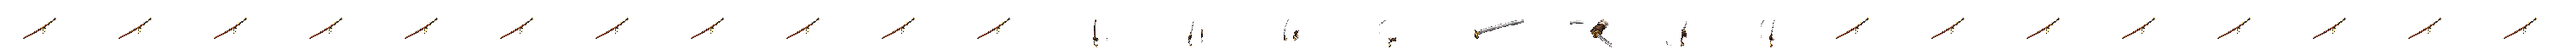
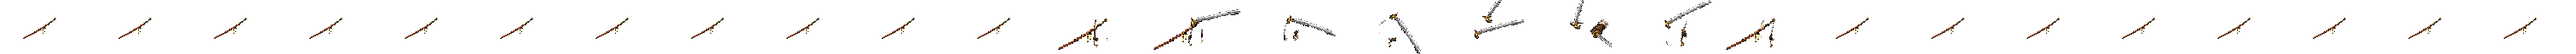
fix(character): 검공격 프레임(11~18) 검 레이어 재생성 반영
기존엔 검공격 8프레임 중 실제로 칼이 뽑혀 휘둘러지는 그림이 1프레임뿐이고
나머지는 대기(sheathed) 자세와 거의 동일해 몸은 움직이는데 칼집만 등에
고정된 것처럼 보였다. 사용자가 나노바나나로 재생성한 8프레임으로 교체 —
대부분 프레임에서 손 위치를 따라가는 단일 형태로 개선됨.

남은 결함(DESIGN_LOG D2 기록):
- frame 12·13·16: 칼날이 112px 셀 경계에서 클리핑(디더링 노이즈)
- frame 15·16: gunblader_base.png 자체의 프레임 겹침(별개 기존 문제, 미수정)

npm run qc 15단계 통과.

Claude-Session: https://claude.ai/code/session_01JQrqj8VwghESuWCrw9YgFX

diff --git a/DESIGN_LOG.md b/DESIGN_LOG.md
@@ -139,6 +139,26 @@
 삭제는 하지 않음(요청 범위 밖). `tools/measure_sprites.py`가 `assets.ts` 참조
 경로만 검사하므로 이 파일들은 자동 검사로는 못 잡음 — 여기 기록만 남긴다.
 
+### D2. 캐릭터 검공격 시트(frame 11~18) 잔여 결함 (1차 재생성 후에도 일부 남음)
+
+`gunblader_base.png`(몸통)와 `gunblader_sword_katana.png`(검) 레이어 합성 시,
+검공격 구간(프레임 11~18) 두 곳에 결함이 남아있다:
+
+- **`gunblader_base.png` frame 15·16 프레임 겹침**: 한 프레임(112px 폭) 안에 서로
+  떨어진 두 실루엣이 들어있고(frame 16), 인접 frame 15는 팔이 몸통에서 끊겨 보인다.
+  `tools/extract_character_sheet.py`가 이전 시트에서 고쳤던 것과 같은 종류의
+  프레임 간격 불균일 문제로 추정 — 원본(자르기 전) 일러스트가 있어야 그 도구로
+  다시 깨끗하게 잘라낼 수 있다. **몸통 파일은 아직 미수정.**
+- **`gunblader_sword_katana.png` frame 12·13·16 칼날 클리핑**: 나노바나나로
+  1차 재생성(사용자 요청)한 결과 frame 11/14/17/18은 손 위치에 자연스럽게
+  붙었지만, frame 12·13·16은 칼날이 112px 셀 경계에 닿기 전에 잘리면서
+  경계에 디더링 노이즈가 남는다(칼끝이 뾰족하게 마무리되지 않고 뭉개짐).
+  실제 게임 축소 스케일에서는 크게 두드러지지 않지만 확대하면 보인다.
+
+원래 있던 "칼이 스윙 내내 등에 고정된 것처럼 안 움직이던" 문제(검 레이어가
+몸통 동작을 거의 안 따라감)는 이번 재생성으로 해소됐다 — 위 두 항목은 그
+잔여 결함이다.
+
 ---
 
 ## 미검증 영역
